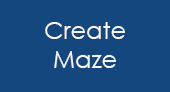
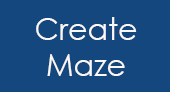
new buttons

Changed region(s): [[0.2647, 0.5435, 0.7353, 0.8261], [0.2059, 0.1739, 0.8235, 0.4348]]

diff --git a/MazeAndBlue/MazeAndBlue/MazeAndBlue/Screens/CreateMaze.cs b/MazeAndBlue/MazeAndBlue/MazeAndBlue/Screens/CreateMaze.cs
@@ -10,7 +10,7 @@ namespace MazeAndBlue
         Rectangle failWindow;
         Texture2D failTexture;
         enum CreateState { WALLS, GOAL, P1, P2, SAVE };
-        Button wallButton, goalButton, p1Button, p2Button, mainMenuButton, saveButton, okButton;
+        Button wallButton, goalButton, p1Button, p2Button, backButton, saveButton, okButton;
         List<Button> buttons;
         CreateState state;
         Color tempColor, hlColor, wallColor, goalColor;
@@ -34,16 +34,16 @@ namespace MazeAndBlue
             goalButton = new Button(new Point(200, 30), 136, 72, "Goal", "Buttons/goal");
             p1Button = new Button(new Point(370, 30), 136, 72, "Player One", "Buttons/playerOne");
             p2Button = new Button(new Point(540, 30), 136, 72, "Player Two", "Buttons/playerTwo");
-            mainMenuButton = new Button(new Point(Program.game.screenWidth - 166, 30), 136, 72, "Main Menu", "Buttons/mainMenuButton");
+            backButton = new Button(new Point(Program.game.screenWidth - 166, 30), 136, 72, "Back", "Buttons/back");
             saveButton = new Button(new Point(Program.game.screenWidth - 332, 30), 136, 72, "Save", "Buttons/save");
-            okButton = new Button(new Point(Program.game.screenWidth / 2 - 40, failWindow.Bottom - 100), 80, 50, "OK", "Buttons/button");
+            okButton = new Button(new Point(Program.game.screenWidth / 2 - 40, failWindow.Bottom - 100), 80, 50, "okay", "Buttons/ok");
 
             buttons = new List<Button>();
             buttons.Add(wallButton);
             buttons.Add(goalButton);
             buttons.Add(p1Button);
             buttons.Add(p2Button);
-            buttons.Add(mainMenuButton);
+            buttons.Add(backButton);
             buttons.Add(saveButton);
 
             hlColor = new Color(25, 255, 55, 25);
@@ -129,7 +129,7 @@ namespace MazeAndBlue
             p1Button.draw(spriteBatch);
             if(!singleplayer)
                 p2Button.draw(spriteBatch);
-            mainMenuButton.draw(spriteBatch);
+            backButton.draw(spriteBatch);
             saveButton.draw(spriteBatch);
 
             switch (state)
@@ -187,8 +187,8 @@ namespace MazeAndBlue
                     state = CreateState.P2;
                 else if (saveButton.isSelected())
                     state = CreateState.SAVE;
-                else if (mainMenuButton.isSelected())
-                    Program.game.startMainMenu();
+                else if (backButton.isSelected())
+                    Program.game.startCreateMazeSelect();
 
                 bool clicked = Program.game.ms.newPointReady;
                 Point point = Program.game.ms.point;

diff --git a/MazeAndBlue/MazeAndBlue/MazeAndBlue/Screens/StatsScreen.cs b/MazeAndBlue/MazeAndBlue/MazeAndBlue/Screens/StatsScreen.cs
@@ -42,19 +42,19 @@ namespace MazeAndBlue
             mainMenuButton = new Button(new Point(screenWidth / 6 - smallButtonWidth / 2, row1), largeButtonWidth, 
                 largeButtonHeight, "Main", "Buttons/mainMenuButton");
             totalButton = new Button(new Point(screenWidth / 2 - smallButtonWidth * 3, row2), smallButtonWidth, 
-                smallButtonHeight, "Total", "Buttons/statistics");
+                smallButtonHeight, "Total", "Buttons/totalButton");
             singlePlayerButton = new Button(new Point(screenWidth / 2 - (int)(smallButtonWidth * 3/2) + 20, row2), smallButtonWidth, 
                 smallButtonHeight, "Total", "Buttons/singlePlayer");
             coopModeButton = new Button(new Point(screenWidth / 2 + (int)(smallButtonWidth / 2) - 20, row2), smallButtonWidth, 
                 smallButtonHeight, "Total", "Buttons/coopMode");
             createdMazesButton = new Button(new Point(screenWidth / 2 + smallButtonWidth * 2, row2), smallButtonWidth, 
-                smallButtonHeight, "Total", "Buttons/createMaze");
+                smallButtonHeight, "Total", "Buttons/createdMazes");
             easyButton = new Button(new Point(screenWidth / 2 - 2 * smallButtonWidth, row3), smallButtonWidth, 
                 smallButtonHeight, "Easy", "Buttons/easy");
             hardButton = new Button(new Point(screenWidth / 2 + smallButtonWidth, row3), smallButtonWidth, 
                 smallButtonHeight, "Hard", "Buttons/hard");
-            yesButton = new Button(new Point(screenWidth / 2 - 120, confWindow.Bottom - 100), 80, 50, "Yes", "Buttons/button");
-            noButton = new Button(new Point(screenWidth / 2 + 40, confWindow.Bottom - 100), 80, 50, "No", "Buttons/button");
+            yesButton = new Button(new Point(screenWidth / 2 - 120, confWindow.Bottom - 100), 80, 50, "Yes", "Buttons/yes");
+            noButton = new Button(new Point(screenWidth / 2 + 40, confWindow.Bottom - 100), 80, 50, "No", "Buttons/no");
             int levelX = window.Right - window.Width / 3 - smallButtonWidth / 2;
             statsState = StatsState.TOTAL;
 
@@ -193,7 +193,7 @@ namespace MazeAndBlue
             if (conformation)
             {
                 spriteBatch.Draw(confTexture, confWindow, new Color(128, 128, 128, 200));
-                Program.game.drawText("Restart stat?", new Point(screenWidth / 2, confWindow.Top + 55));
+                Program.game.drawText("Reset stat?", new Point(screenWidth / 2, confWindow.Top + 55));
                 yesButton.draw(spriteBatch);
                 noButton.draw(spriteBatch);
             }

diff --git a/MazeAndBlue/MazeAndBlue/MazeAndBlue/Screens/CreateMazeSelection.cs b/MazeAndBlue/MazeAndBlue/MazeAndBlue/Screens/CreateMazeSelection.cs
@@ -50,17 +50,17 @@ namespace MazeAndBlue
             hardButton = new Button
                 (new Point(950, 20), 200, 100, "hard", "Buttons/hard");
             playButton = new Button
-                (new Point(300, 150), 200, 100, "Play", "Buttons/button");
+                (new Point(300, 150), 200, 100, "Play", "Buttons/play");
             deleteButton = new Button
-                (new Point(600, 150), 200, 100, "Delete", "Buttons/button");
+                (new Point(600, 150), 200, 100, "Delete", "Buttons/delete");
             menuButton = new Button
                 (new Point(Program.game.screenWidth - 166, 30), 136, 72, "Main Menu", "Buttons/mainMenuButton");
             nextButton = new Button
                 (new Point(screenWidth - 220, screenHeight - 120), 200, 100, "Next", "Buttons/next");
             prevButton = new Button
                 (new Point(20, screenHeight - 120), 200, 100, "Previous", "Buttons/previous");
-            yesButton = new Button(new Point(screenWidth / 2 - 120, confWindow.Bottom - 100), 80, 50, "Yes", "Buttons/button");
-            noButton = new Button(new Point(screenWidth / 2 + 40, confWindow.Bottom - 100), 80, 50, "No", "Buttons/button");
+            yesButton = new Button(new Point(screenWidth / 2 - 120, confWindow.Bottom - 100), 80, 50, "Yes", "Buttons/yes");
+            noButton = new Button(new Point(screenWidth / 2 + 40, confWindow.Bottom - 100), 80, 50, "No", "Buttons/no");
 
             int i = 0;
             levelButtons = new List<Button>();
@@ -204,6 +204,5 @@ namespace MazeAndBlue
                 }
             }
         }
-
     }
 }
